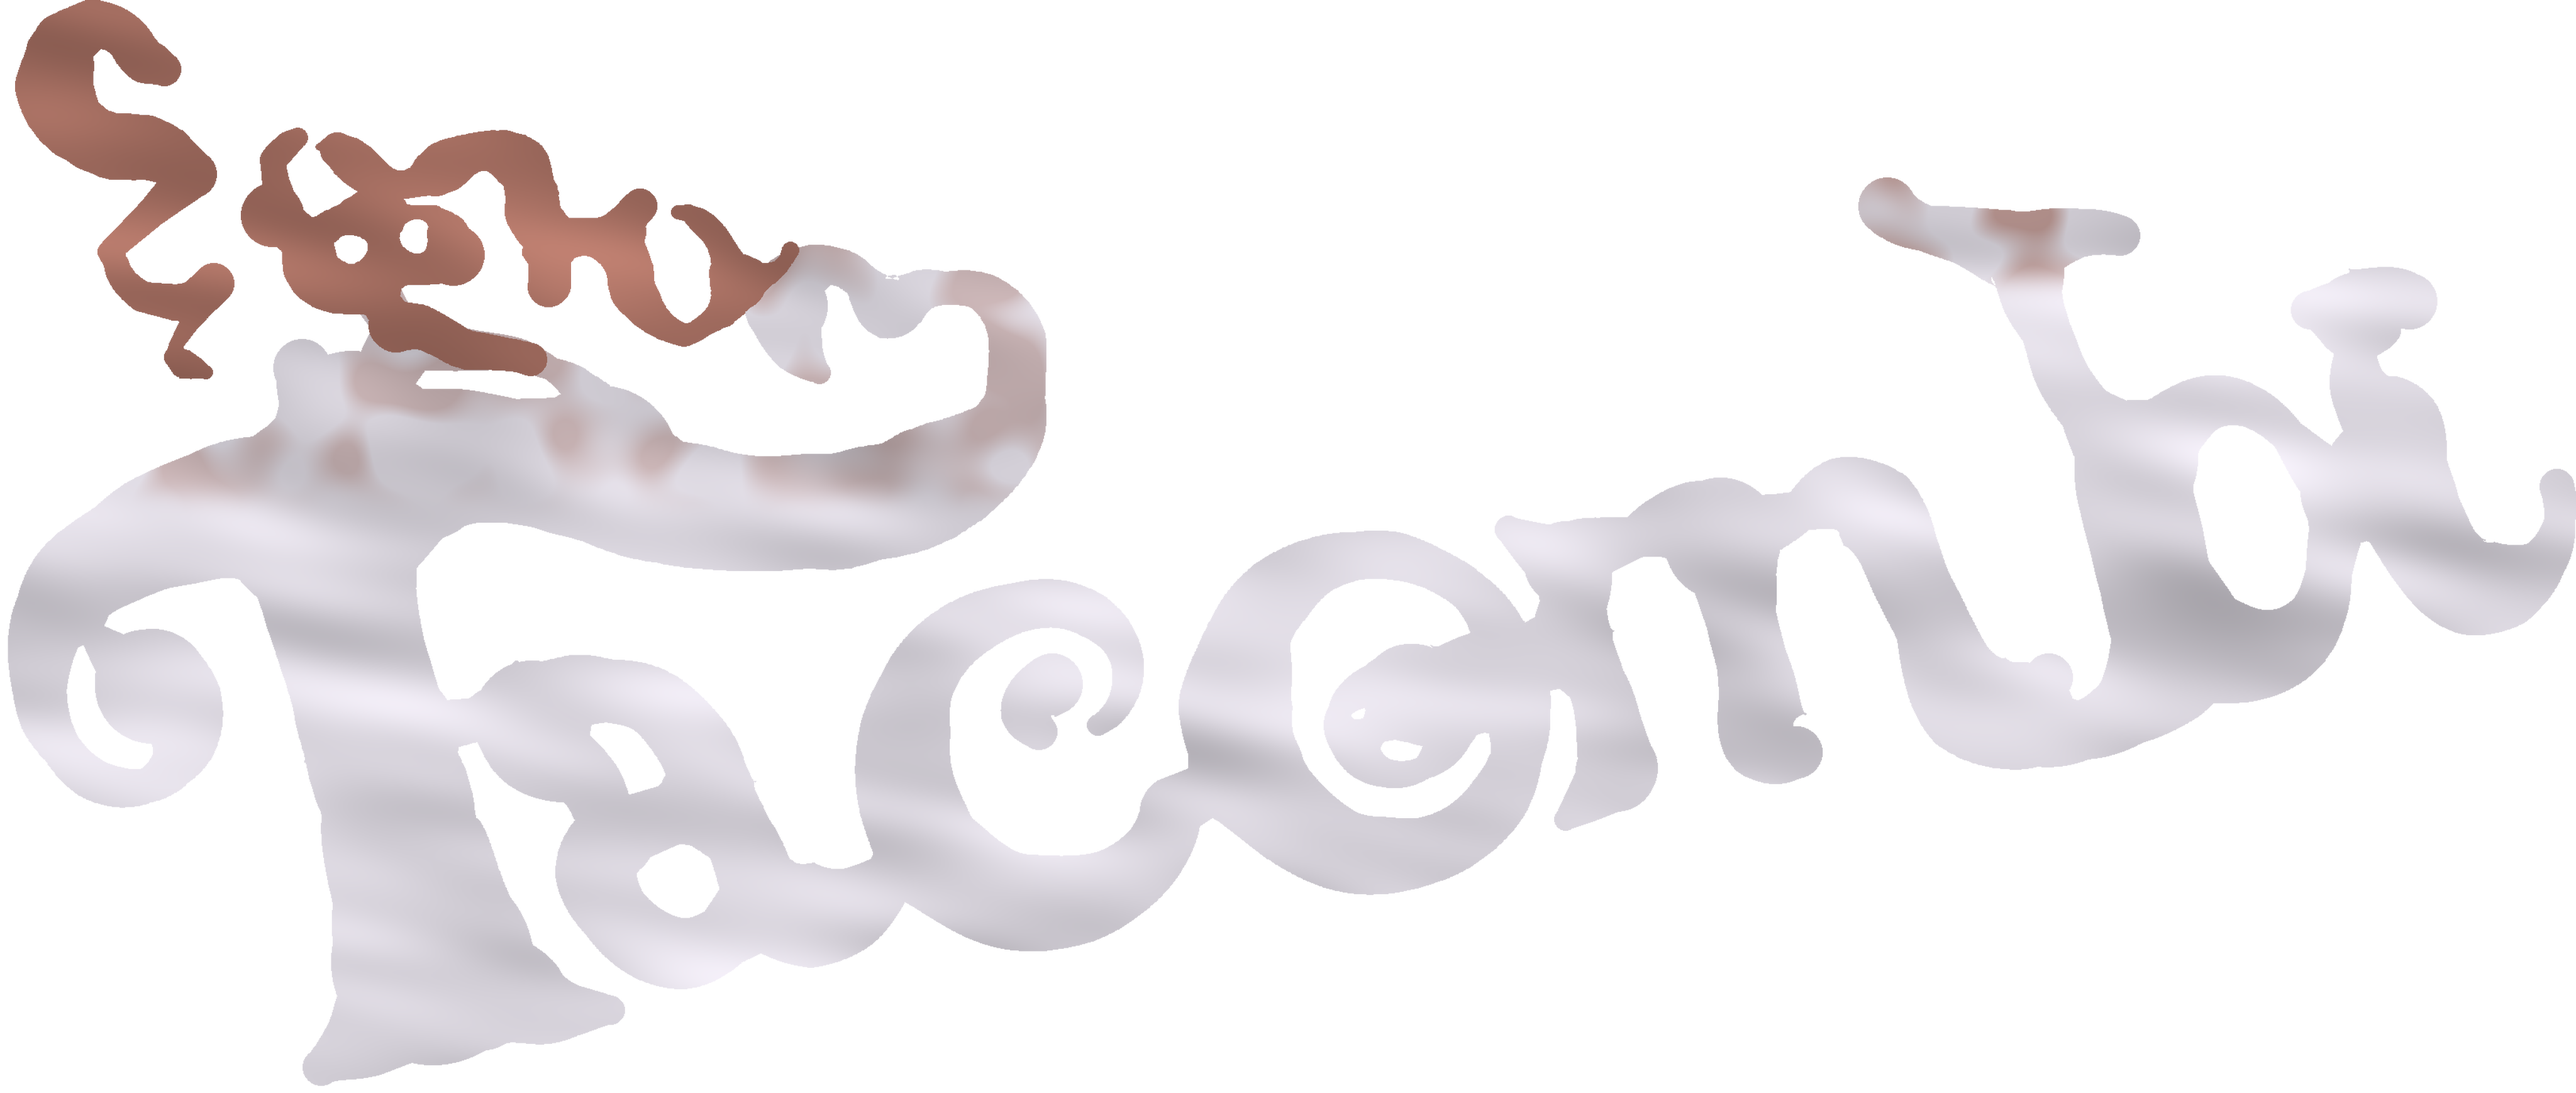
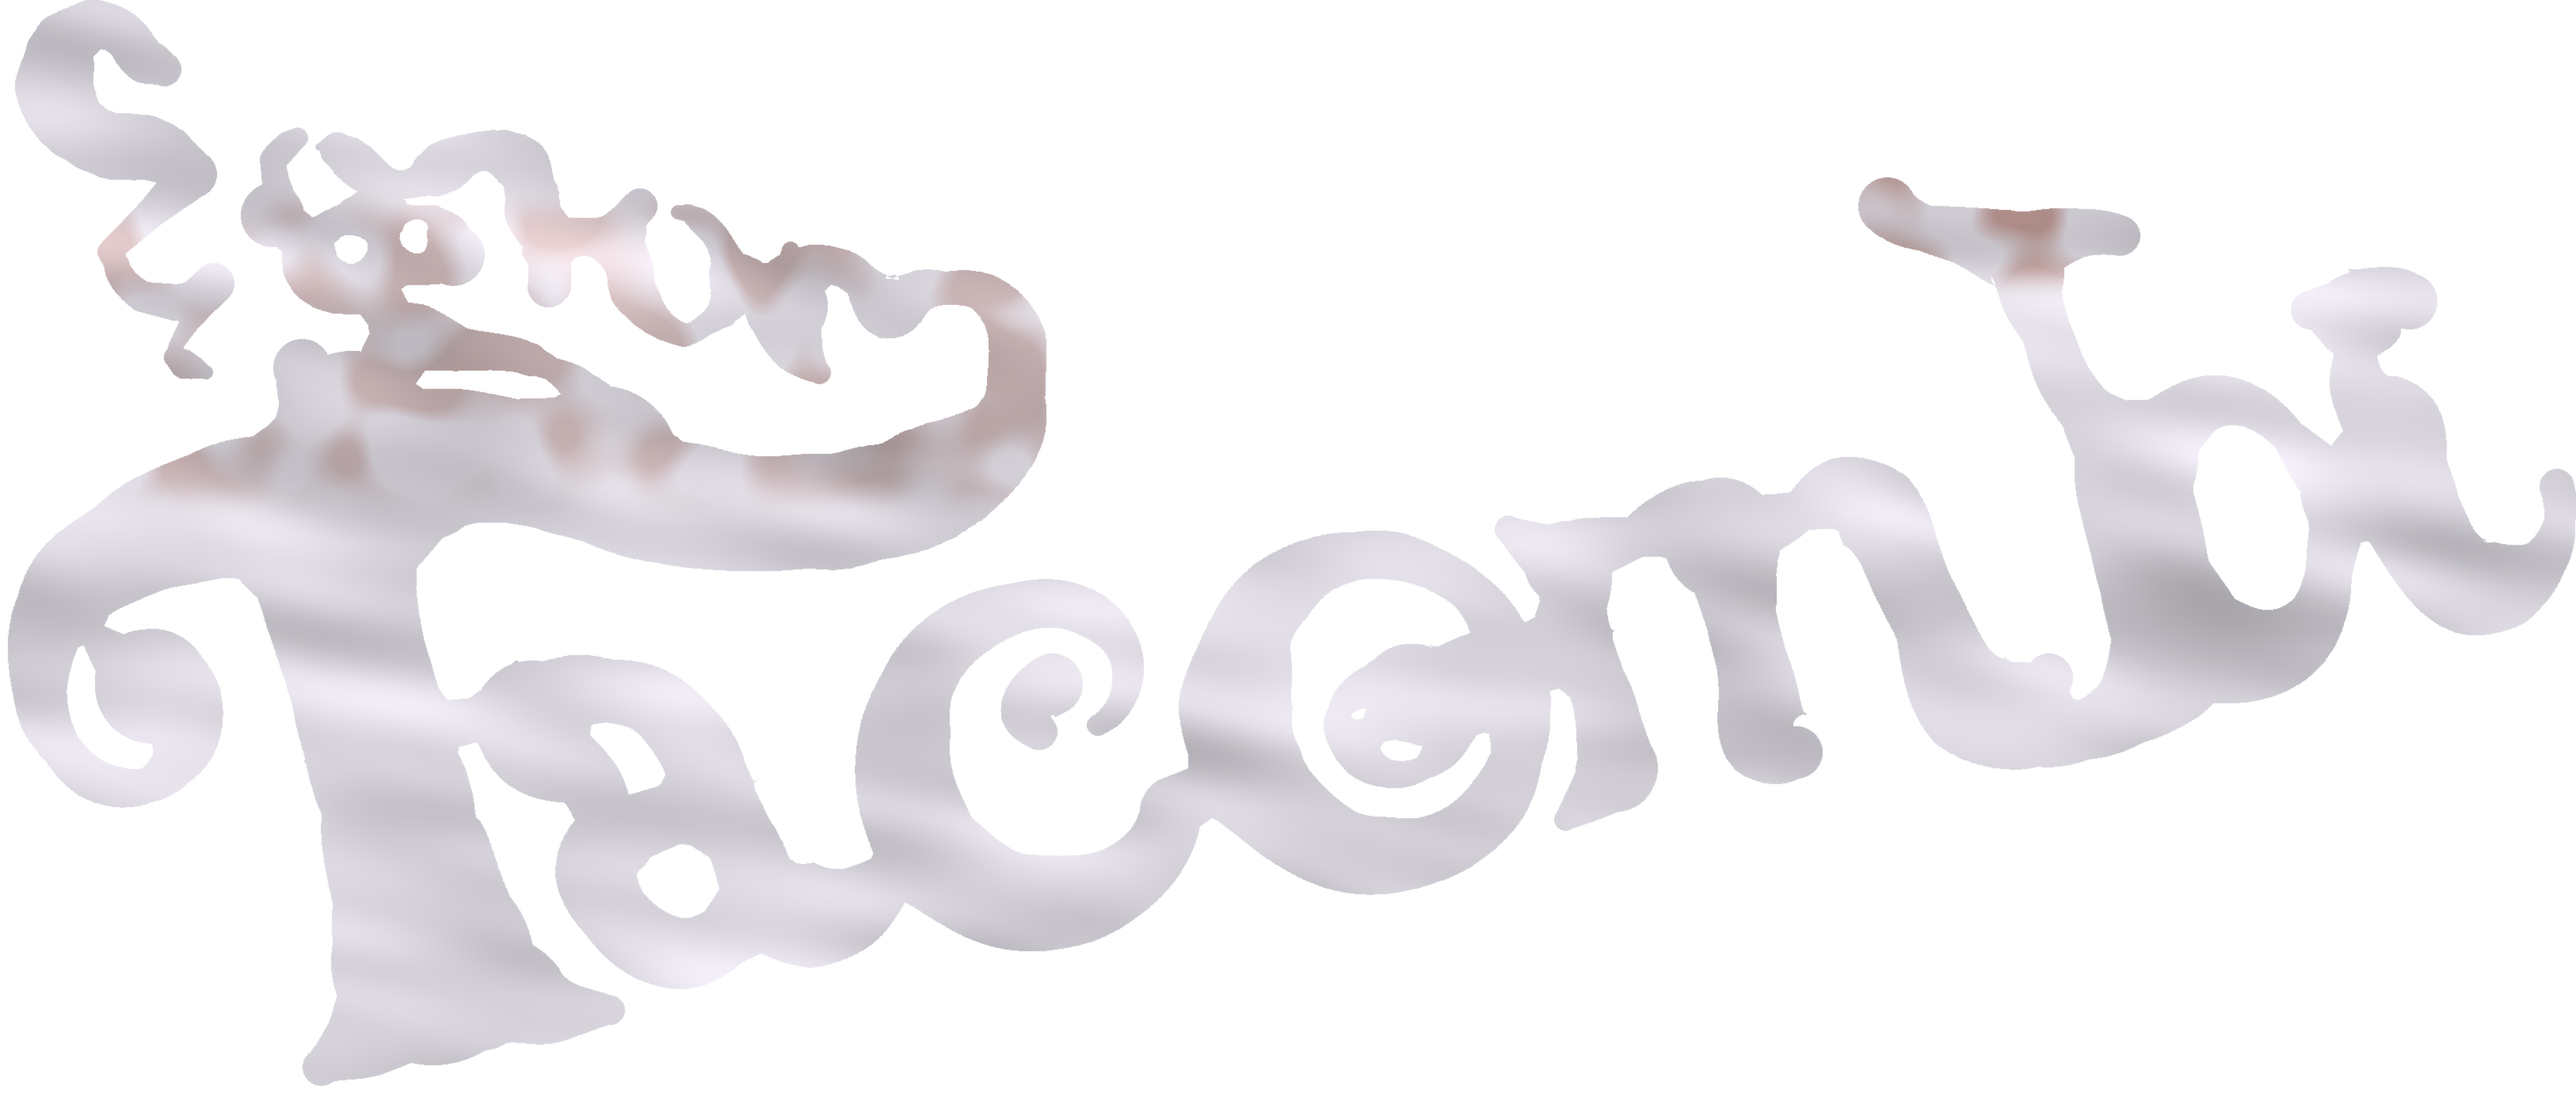
rev 62: HIS RULING -- the Senor word is BRIGHT SILVER, and SPEC sec.3's weathered lock is overridden for that word only
THE QUESTION WAS ASKED WITH THE FIGURE, WHICH IS THE PART THAT MATTERS.
probe_scratch/rev62_q_senor.png puts the photograph and the render of the same
word at the SAME mm/px, off flank_compare's own registered panels, so the two
are directly comparable and he did not have to take my word for anything.  Four
options: bright silver like Tacombi; clearer than the photograph but still aged;
match the photograph exactly; or fix the size first and re-ask.

HE CHOSE "Bright silver, same as Tacombi."

The rev-62 brief sec.4 had flagged this collision in advance -- his rev-61
"I want this 3d model to look like new.  Enhanced from the photo" against
SPEC sec.3's WEATHERED lock -- and required that it be SURFACED, not silently
decided.  It was surfaced and he decided.

SHIPPED: script_gen.SENOR_TARNISH = 0.0.  The word renders as clean silver at
the same albedo as Tacombi.  WATCHED: its luma goes 117.1 -> 201.1 against a
clean silver of 210.9.

THE OVERRIDE IS FOR THIS WORD ONLY.  The b flag, the i dot and the swash keep
their measured tarnish -- he ruled on Senor, and TARNISH_ZONES is not Senor.
The lift is still SOLVED on the Senor zone so those zones' K is bit-for-bit
what it was; only what is APPLIED changed.

NOTHING MEASURED WAS DELETED.  TARNISH_K and SENOR_MICHELSON stay, and
T1_SENOR_TARNISH=1 restores the pre-ruling texture BYTE FOR BYTE -- verified by
cmp, and now a verify_clone row.  If he reverses this, nothing is re-measured.
[…]

Changed region(s): [[0.0, 0.0, 0.3125, 0.3418]]

diff --git a/script_gen.py b/script_gen.py
@@ -758,6 +758,37 @@ TARNISH_K = (0.675, 0.374, 0.276)        # 'Senor' median / clean silver median
 #
 # The lift is DERIVED from the target, not typed (SPEC 10.25), so it re-solves
 # if the silver albedo, the mottle or the body red ever move.
+# ===================================================== rev 62, THE OWNER'S RULING
+# HE WAS ASKED, WITH THE FIGURE, AND HE CHOSE: "Bright silver, same as Tacombi."
+#
+# THE QUESTION PUT TO HIM.  probe_scratch/rev62_q_senor.png -- the photograph and
+# the render of the same word at the SAME mm/px, off flank_compare's own
+# registered panels.  In the render `Senor` is a faint ghost against the red
+# while `Tacombi` below it is bright silver, because `Senor` carries the tarnish
+# and `Tacombi` does not.  The four options offered were: bright silver like
+# `Tacombi`; clearer than the photograph but still aged; match the photograph
+# exactly; or fix the size first and re-ask.  HE CHOSE BRIGHT SILVER.
+#
+# WHAT IT OVERRIDES, STATED RATHER THAN BURIED.  SPEC sec.3 locks the finish as
+# WEATHERED.  The rev-62 brief sec.4 flagged this collision in advance -- his
+# rev-61 ruling *"I want this 3d model to look like new.  Enhanced from the
+# photo"* against that lock -- and instructed that it be SURFACED, not silently
+# decided either way.  It was surfaced and he decided.  THE OVERRIDE IS FOR THIS
+# WORD ONLY.  The b flag, the i dot and the swash keep their measured tarnish:
+# he ruled on `Senor`, and TARNISH_ZONES is not `Senor`.
+#
+# WHAT SURVIVES THE OVERRIDE.  TARNISH_K and SENOR_MICHELSON are MEASUREMENTS and
+# they are not deleted -- they are what T1_SENOR_TARNISH=1 restores, and the lift
+# is still solved on the `Senor` zone so the zones' K is bit-for-bit what it was.
+# If he ever reverses this, nothing has to be re-measured.
+#
+# AND THE RETIREMENT CONDITION ON THE REV-46 LIFT IS NOW MOOT FOR THIS WORD.
+# That lift existed to drag a fully-tarnished `Senor` up to the photograph's
+# Michelson 0.1922.  With the tarnish gone the word is clean silver and the
+# 0.058 "declared departure" recorded below no longer applies to it.  It still
+# applies to the zones.
+SENOR_TARNISH = float(os.environ.get("T1_SENOR_TARNISH", 0.0))
+
 SENOR_MICHELSON = 0.1922                 # ref_side.jpg, +-0.0060, 6 th x 4 windows
 BODY_RED_L = 0.2126 * 196 + 0.7152 * 49 + 0.0722 * 36    # t1_mats body red sRGB
 MOTTLE_REL = 0.059                       # 7.4 DN on a mean of 125.8
@@ -868,7 +899,8 @@ def main():
     sen = senor_only_hi()[y0 * SS:(y1 + 1) * SS, x0 * SS:(x1 + 1) * SS]
     sen = np.array(Image.fromarray(sen.astype(np.uint8))
                    .resize((OUT_W, h), Image.LANCZOS)).astype(np.float32) / 255.0
-    tw = np.clip(sen * 1.15, 0, 1)               # 'Senor': full strength
+    tw_sen = np.clip(sen * 1.15, 0, 1)           # 'Senor': full strength
+    tw_zones = np.zeros_like(tw_sen)             # the b flag, i dot, swash
 
     rng = np.random.default_rng(731)
     blot = nd.gaussian_filter(rng.standard_normal((h, OUT_W)).astype(np.float32),
@@ -884,8 +916,14 @@ def main():
         z = np.zeros((h, OUT_W), np.float32)
         z[gy0:gy1, gx0:gx1] = 1.0
         z = nd.gaussian_filter(z, sigma=1.2 * ppm, mode='constant')
-        tw = np.maximum(tw, z * s * np.clip(blot * 0.7 + 0.45, 0, 1))
-    tw = np.clip(tw, 0, 1)[..., None]
+        tw_zones = np.maximum(tw_zones, z * s * np.clip(blot * 0.7 + 0.45, 0, 1))
+    # The lift below is SOLVED ON THE `Senor` ZONE and its target was measured
+    # there, so the solve must see that zone whatever SENOR_TARNISH is.  Only
+    # what is APPLIED changes.  At SENOR_TARNISH = 1 the two are identical and
+    # this file behaves exactly as it did before rev 62.
+    tw = np.clip(np.maximum(tw_sen, tw_zones), 0, 1)[..., None]
+    tw_apply = np.clip(np.maximum(tw_sen * SENOR_TARNISH, tw_zones),
+                       0, 1)[..., None]
 
     # ------------------------------------------- rev 46, W3: SOLVE THE LIFT
     # Luminance is LINEAR in the lift -- K' = K + (1-K)*lift gives
@@ -907,7 +945,12 @@ def main():
         TARNISH_LIFT = 0.0
         print("  Senor lift: NO TARNISH ZONE FOUND -- lift 0")
     _K = _K0 + (1.0 - _K0) * TARNISH_LIFT
-    rgb = rgb * (1.0 - tw) + rgb * _K * tw
+    rgb = rgb * (1.0 - tw_apply) + rgb * _K * tw_apply
+    if SENOR_TARNISH < 1.0:
+        print("  Senor tarnish: SENOR_TARNISH=%.2f -- the owner's rev-62 "
+              "ruling.  The word renders as CLEAN SILVER, the same albedo as "
+              "`Tacombi`; the b flag, i dot and swash zones are UNTOUCHED."
+              % SENOR_TARNISH)
 
     rgb = np.clip(rgb, 0, 255).astype(np.uint8)
     out = np.dstack([rgb, al])
@@ -915,16 +958,27 @@ def main():
     Image.fromarray(out).save(os.path.join(TEX, "senor.png"))
     ink = al > 96
     lm = (0.2126 * rgb[..., 0] + 0.7152 * rgb[..., 1] + 0.0722 * rgb[..., 2])
-    clean = ink & (tw[..., 0] < 0.05)
+    clean = ink & (tw_apply[..., 0] < 0.05)
     print("wrote tex/senor.png  %dx%d  AR %.4f" % (OUT_W, h, OUT_W / h))
     print("  base albedo sRGB %s" % np.round(base, 1))
     print("  clean-silver luma %.1f +/- %.1f  (relative std %.3f, measured 0.059)"
           % (lm[clean].mean(), lm[clean].std(),
              lm[clean].std() / max(lm[clean].mean(), 1e-9)))
-    tar = ink & (tw[..., 0] > 0.6)
+    # REPORT WHAT WAS APPLIED, NOT WHAT WOULD HAVE BEEN.  Before rev 62 these
+    # were the same array; now they are not, and reading `tw` here would have
+    # printed a "tarnished luma" of 201.1 that is a blend of the cleaned `Senor`
+    # and the still-tarnished zones -- a plausible number about no pixel set.
+    tar = ink & (tw_apply[..., 0] > 0.6)
     if tar.sum():
         print("  tarnished luma    %.1f  (%.1f%% of ink; measured 'Senor' is "
               "0.43x clean)" % (lm[tar].mean(), 100.0 * tar.sum() / ink.sum()))
+    else:
+        print("  tarnished luma    none applied (SENOR_TARNISH=%.2f and the "
+              "zones fall below the 0.6 reporting cut)" % SENOR_TARNISH)
+    _sen_ink = ink & (tw[..., 0] > 0.6)
+    if _sen_ink.sum():
+        print("  the `Senor` word  luma %.1f  (was 117.1 fully tarnished; "
+              "clean silver is %.1f)" % (lm[_sen_ink].mean(), lm[clean].mean()))
     return OUT_W / h
 
 
